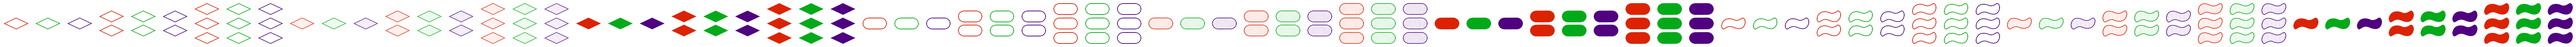
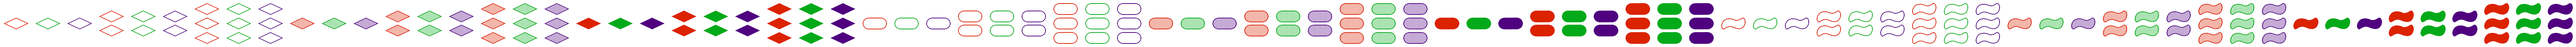
Replace shaded card interiors with synthetic shading.

Changed region(s): [[0.4364, 0.075, 0.5611, 0.95], [0.7793, 0.075, 0.904, 0.925], [0.0935, 0.075, 0.2182, 0.925]]

diff --git a/static/styles.css b/static/styles.css
@@ -236,7 +236,7 @@ table {
 }
 
 .colourBlindClassicTau {
-  background:url('/static/colourblindclassiccards.png?v=1') no-repeat scroll 0 0 white;
+  background:url('/static/colourblindclassiccards.png?v=2') no-repeat scroll 0 0 white;
 }
 
 .smallRegularTau {
@@ -248,7 +248,7 @@ table {
 }
 
 .smallColourBlindClassicTau {
-  background:url('/static/smallcolourblindclassiccards.png?v=1') no-repeat scroll 0 0 white;
+  background:url('/static/smallcolourblindclassiccards.png?v=2') no-repeat scroll 0 0 white;
 }
 
 .projectiveTau {

diff --git a/preprocessing/gen_classic_cards.py b/preprocessing/gen_classic_cards.py
@@ -23,6 +23,8 @@ VERTICAL_OFFSETS = {
 SHAPES_DIR = "rawshapes"
 
 def make_file(shape, shading):
+  if shading == "shaded":
+    shading = "empty"
   return "{}{}.png".format(shading, shape)
 
 def recolour(img, colour):
@@ -36,6 +38,34 @@ def recolour(img, colour):
   img.putdata(new_data)
   return img
 
+def add_lines(img, scale, colour, shape):
+  new_data = []
+  cols_one = set()
+  cols_two = set()
+  cols_three = set()
+  width, height = img.size
+  if scale == 1:
+    threshold = 4 if shape == "diamond" else 3
+  else:
+    threshold = 4 if shape == "diamond" else 2
+  good_cols = set([0])
+  for i, pixel in enumerate(img.getdata()):
+    col = i % width
+    diff = (abs(pixel[0] - colour[0]) + abs(pixel[1] - colour[1]) + abs(pixel[2] - colour[2]))
+    is_black = diff < (100 if scale == 1 else 270)
+    if not col in cols_one and is_black:
+      cols_one.add(col)
+    elif col in cols_one and not col in cols_two and not is_black:
+      cols_two.add(col)
+    elif col in cols_one and col in cols_two and not col in cols_three and is_black:
+      cols_three.add(col)
+    if col in cols_two and not col in cols_three and (col % (3 if scale == 1 else 2)) in good_cols and not col < threshold and not col > width - threshold:
+      new_data.append(colour)
+    else:
+      new_data.append(pixel)
+  img.putdata(new_data)
+  return img
+
 def gen_cards(colours, scale, dest_file):
   canvas = Image.new("RGBA", (int(round(81 * WIDTH * scale)), int(round(HEIGHT * scale))), (255, 255, 255, 0))
   card_number = 0
@@ -46,14 +76,15 @@ def gen_cards(colours, scale, dest_file):
     for shading in ["empty", "shaded", "solid"]:
       for number in [1, 2, 3]:
         for colour in colours:
-          shape_key = make_file(shape, shading)
+          shape_key = (shape, shading)
+          shape_file = make_file(shape, shading)
           if (shape_key, colour) in coloured_img_cache:
             img = coloured_img_cache[(shape_key, colour)]
           else:
             if shape_key in img_cache:
               img = img_cache[shape_key]
             else:
-              img = Image.open(os.path.join(SHAPES_DIR, shape_key))
+              img = Image.open(os.path.join(SHAPES_DIR, shape_file))
               img = img.rotate(90)
               img_cache[shape_key] = img
             img = recolour(img, colour)
@@ -62,6 +93,8 @@ def gen_cards(colours, scale, dest_file):
             img = img.resize((int(round(scale_factor * orig_width)),
               int(round(scale_factor * orig_height))),
               Image.ANTIALIAS)
+            if shading == "shaded":
+              img = add_lines(img, scale, colour, shape)
             coloured_img_cache[(shape_key, colour)] = img
 
           card_offset = card_number * int(round(WIDTH * scale))
